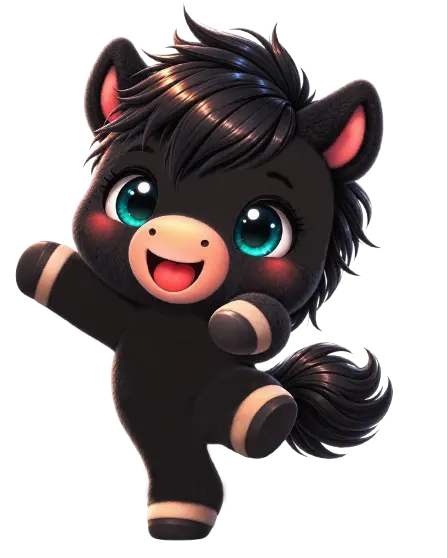
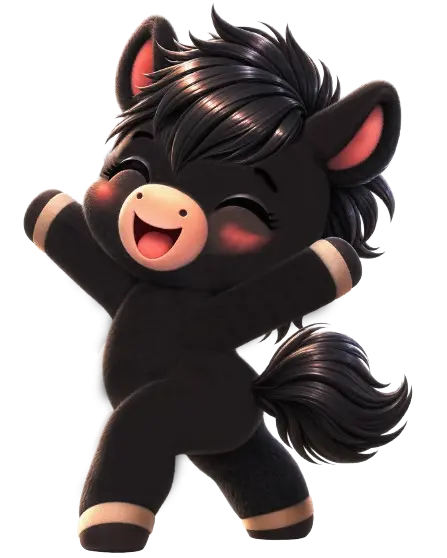
Update Happy Free dance CE

diff --git a/Scenes/GameLoad.js b/Scenes/GameLoad.js
@@ -155,7 +155,9 @@ window.GameLoad.preloadAllAssets = function(scene) {
     scene.load.image('bhMiniS2_9', './Puzzle-Assets/UI/GM BH Mini S02 9 Happy.webp');
     scene.load.image('bhMiniS2_9FD1', './Puzzle-Assets/UI/GM BhMiniS2 Dance1 Happy Free.webp');
     scene.load.image('bhMiniS2_9FD2', './Puzzle-Assets/UI/GM BhMiniS2 Dance2 Happy Free.webp');
+    scene.load.image('bhMiniS2_9FD2CE', './Puzzle-Assets/UI/GM BhMiniS2 Dance2 Happy Free Closed Eyes.webp');
     scene.load.image('bhMiniS2_9FD3', './Puzzle-Assets/UI/GM BhMiniS2 Dance3 Happy Free.webp');
+    scene.load.image('bhMiniS2_9FD3CE', './Puzzle-Assets/UI/GM BhMiniS2 Dance3 Happy Free Closed Eyes.webp');
     scene.load.image('bhMiniS2_10', './Puzzle-Assets/UI/GM BH Mini S02 10 Closed Eye Happy.webp');
     scene.load.image('bhMiniS2_10FH', './Puzzle-Assets/UI/GM BhMiniS2 Frozen Hand.webp');
     scene.load.image('bhMiniS2_10FHCE', './Puzzle-Assets/UI/GM BhMiniS2 Frozen Hand Closed Eyes.webp');
